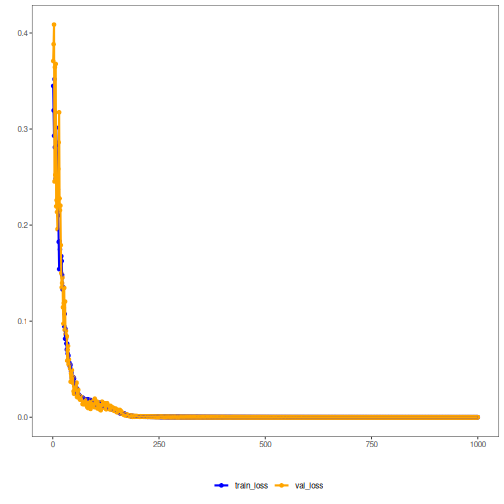
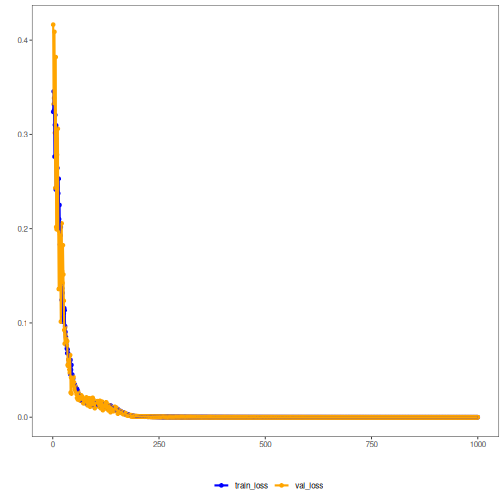
update

diff --git a/inst/python/autoenc_stacked.py b/inst/python/autoenc_stacked.py
@@ -121,13 +121,14 @@ def autoenc_stacked_train(sae, data, batch_size=32, num_epochs = 1000, learning_
   
   return sae, np.array(train_loss), np.array(val_loss)  
 
+
 def autoenc_stacked_fit(stack, data, batch_size = 32, num_epochs = 1000, learning_rate = 0.001):
     batch_size = int(batch_size)
     num_epochs = int(num_epochs)
 
     #STEP 1 - Start fitting first k autoencoder using original input layer        
     ae_k1 = stack[0]
-    ae_k1 = autoenc_stacked_train(ae_k1, data, num_epochs = num_epochs, learning_rate = learning_rate)
+    ae_k1, _, _ = autoenc_stacked_train(ae_k1, data, num_epochs = num_epochs, learning_rate = learning_rate)
     ae_k_out = autoenc_stacked_encode_decode(ae_k1, data)
     
     #STEP 2 - Fit internal layers using outputs from previous layers
@@ -135,13 +136,13 @@ def autoenc_stacked_fit(stack, data, batch_size = 32, num_epochs = 1000, learnin
     
     for k in range(1, internal):        
         ae_k = stack[k]
-        ae_k = autoenc_stacked_train(ae_k, data, num_epochs = num_epochs, learning_rate = learning_rate)
+        ae_k, _, _ = autoenc_stacked_train(ae_k, data, num_epochs = num_epochs, learning_rate = learning_rate)
         ae_k_out = autoenc_stacked_encode_decode(ae_k, ae_k_out)
     
     sae = stack[-1]
-    sae = autoenc_stacked_train(ae_k, data, num_epochs = num_epochs, learning_rate = 0.001)
+    saelist = autoenc_stacked_train(ae_k, data, num_epochs = num_epochs, learning_rate = 0.001)
     
-    return sae
+    return saelist
 
 
 def autoenc_stacked_encode_data(sae, data_loader):

diff --git a/autoencoder/autoenc_stacked_ed.md b/autoencoder/autoenc_stacked_ed.md
@@ -78,36 +78,17 @@ auto <- autoenc_stacked_ed(5, 3)
 auto <- fit(auto, train)
 ```
 
-```
-## 'tuple' object has no attribute 'encoder'
-```
-
 ### learning curves
 
 
 ```r
 fit_loss <- data.frame(x=1:length(auto$train_loss), train_loss=auto$train_loss,val_loss=auto$val_loss)
-```
 
-```
-## Error in data.frame(x = 1:length(auto$train_loss), train_loss = auto$train_loss, : arguments imply differing number of rows: 2, 0
-```
-
-```r
 grf <- plot_series(fit_loss, colors=c('Blue','Orange'))
-```
-
-```
-## Error in eval(expr, envir, enclos): object 'fit_loss' not found
-```
-
-```r
 plot(grf)
 ```
 
-```
-## Error in eval(expr, envir, enclos): object 'grf' not found
-```
+![plot of chunk unnamed-chunk-6](fig/autoenc_stacked_ed/unnamed-chunk-6-1.png)
 
 ### testing autoencoder
 presenting the original test set and display encoding
@@ -133,20 +114,19 @@ print(head(result))
 ```
 
 ```
-## NULL
+##           [,1]      [,2]      [,3]      [,4]      [,5]
+## [1,] 0.7267006 0.8286961 0.9104187 0.9673617 0.9957749
+## [2,] 0.8296547 0.9115273 0.9678695 0.9958019 0.9922695
+## [3,] 0.9118465 0.9683105 0.9963526 0.9946541 0.9602421
+## [4,] 0.9692327 0.9968472 0.9941206 0.9615766 0.8981550
+## [5,] 0.9980532 0.9949844 0.9611439 0.8989650 0.8104084
+## [6,] 0.9960976 0.9611527 0.8982551 0.8113660 0.7037683
 ```
 
 
 ```r
 result <- as.data.frame(result)
 names(result) <- names(test)
-```
-
-```
-## Error in names(result) <- names(test): 'names' attribute [5] must be the same length as the vector [0]
-```
-
-```r
 r2 <- c()
 mape <- c()
 for (col in names(test)){
@@ -159,7 +139,11 @@ print(paste(col, 'R2 test:', r2_col, 'MAPE:', mape_col))
 ```
 
 ```
-## Error in `[.data.frame`(result, col): undefined columns selected
+## [1] "t4 R2 test: 0.999955811670551 MAPE: 0.000730884713085735"
+## [1] "t3 R2 test: 0.999994134181576 MAPE: 0.00119268474939598"
+## [1] "t2 R2 test: 0.999995206921027 MAPE: 0.00228395058206119"
+## [1] "t1 R2 test: 0.999992167761683 MAPE: 0.00279392582585509"
+## [1] "t0 R2 test: 0.999993586042064 MAPE: 0.00337816250447034"
 ```
 
 ```r
@@ -167,14 +151,6 @@ print(paste('Means R2 test:', mean(r2), 'MAPE:', mean(mape)))
 ```
 
 ```
-## Warning in mean.default(r2): argument is not numeric or logical: returning NA
-```
-
-```
-## Warning in mean.default(mape): argument is not numeric or logical: returning NA
-```
-
-```
-## [1] "Means R2 test: NA MAPE: NA"
+## [1] "Means R2 test: 0.99998618131538 MAPE: 0.00207592167497367"
 ```
 

diff --git a/autoencoder/autoenc_ed.md b/autoencoder/autoenc_ed.md
@@ -117,12 +117,12 @@ print(head(result))
 
 ```
 ##           [,1]      [,2]      [,3]      [,4]      [,5]
-## [1,] 0.7247868 0.8316537 0.9137988 0.9683077 0.9964845
-## [2,] 0.8284011 0.9143170 0.9712622 0.9970754 0.9957155
-## [3,] 0.9122372 0.9701865 0.9990995 0.9962782 0.9670812
-## [4,] 0.9719790 0.9984660 0.9956748 0.9633302 0.9042454
-## [5,] 0.9985653 0.9954594 0.9615427 0.9007313 0.8140762
-## [6,] 0.9968860 0.9620174 0.8997785 0.8131266 0.7050553
+## [1,] 0.7261277 0.8325417 0.9103088 0.9666072 0.9978565
+## [2,] 0.8309079 0.9168327 0.9695908 0.9936600 0.9922258
+## [3,] 0.9127750 0.9725673 0.9991595 0.9922458 0.9606904
+## [4,] 0.9694787 0.9988886 0.9969349 0.9618205 0.9017226
+## [5,] 0.9974931 0.9941596 0.9630556 0.9042751 0.8189884
+## [6,] 0.9968123 0.9593908 0.8995146 0.8168983 0.7097685
 ```
 
 
@@ -141,11 +141,11 @@ print(paste(col, 'R2 test:', r2_col, 'MAPE:', mape_col))
 ```
 
 ```
-## [1] "t4 R2 test: 0.999810843059236 MAPE: 0.00137269924771921"
-## [1] "t3 R2 test: 0.999909760513578 MAPE: 0.00146003856596109"
-## [1] "t2 R2 test: 0.999977800097011 MAPE: 0.00102448045578848"
-## [1] "t1 R2 test: 0.999985764083188 MAPE: 0.00135185001891098"
-## [1] "t0 R2 test: 0.999934437144252 MAPE: 0.00305599901480932"
+## [1] "t4 R2 test: 0.999945020621931 MAPE: 0.000794169724340921"
+## [1] "t3 R2 test: 0.999403809347201 MAPE: 0.00410673718601097"
+## [1] "t2 R2 test: 0.999945299095783 MAPE: 0.00148399365761223"
+## [1] "t1 R2 test: 0.999813299511388 MAPE: 0.00372516653221044"
+## [1] "t0 R2 test: 0.999882935116919 MAPE: 0.00393110605050543"
 ```
 
 ```r
@@ -153,5 +153,5 @@ print(paste('Means R2 test:', mean(r2), 'MAPE:', mean(mape)))
 ```
 
 ```
-## [1] "Means R2 test: 0.999923720979453 MAPE: 0.00165301346063782"
+## [1] "Means R2 test: 0.999798072738645 MAPE: 0.002808234630136"
 ```

diff --git a/autoencoder/autoenc_conv_ed.md b/autoencoder/autoenc_conv_ed.md
@@ -115,12 +115,12 @@ print(head(result))
 
 ```
 ##           [,1]      [,2]      [,3]      [,4]      [,5]
-## [1,] 0.7408684 0.8506789 0.9191307 0.9533492 0.9550905
-## [2,] 0.8450747 0.9109615 0.9455776 0.9639896 0.9553459
-## [3,] 0.9079996 0.9391270 0.9536054 0.9619233 0.9419020
-## [4,] 0.9411817 0.9507638 0.9508256 0.9479556 0.9098747
-## [5,] 0.9552422 0.9497773 0.9336877 0.9101027 0.8433060
-## [6,] 0.9588286 0.9369866 0.8919725 0.8236843 0.7227489
+## [1,] 0.7397597 0.8506061 0.9184319 0.9529873 0.9553578
+## [2,] 0.8426411 0.9128184 0.9473937 0.9654758 0.9573398
+## [3,] 0.9080079 0.9409890 0.9553651 0.9632488 0.9437629
+## [4,] 0.9424857 0.9527189 0.9526516 0.9489828 0.9112077
+## [5,] 0.9573957 0.9520572 0.9359058 0.9098629 0.8433960
+## [6,] 0.9611979 0.9393899 0.8955956 0.8213720 0.7210050
 ```
 
 
@@ -139,11 +139,11 @@ print(paste(col, 'R2 test:', r2_col, 'MAPE:', mape_col))
 ```
 
 ```
-## [1] "t4 R2 test: 0.978177474736047 MAPE: 0.0200700266844703"
-## [1] "t3 R2 test: 0.968647302372741 MAPE: 0.0247665668009552"
-## [1] "t2 R2 test: 0.990297353932645 MAPE: 0.0207316420481655"
-## [1] "t1 R2 test: 0.996359062705179 MAPE: 0.0172316807289975"
-## [1] "t0 R2 test: 0.993267851999692 MAPE: 0.0265265214709473"
+## [1] "t4 R2 test: 0.981704452713461 MAPE: 0.0182409375602101"
+## [1] "t3 R2 test: 0.969216741353766 MAPE: 0.0240653824076515"
+## [1] "t2 R2 test: 0.990697513821269 MAPE: 0.0194137694814623"
+## [1] "t1 R2 test: 0.996972758128115 MAPE: 0.0163506028878705"
+## [1] "t0 R2 test: 0.993779874742928 MAPE: 0.0248420318775142"
 ```
 
 ```r
@@ -151,6 +151,6 @@ print(paste('Means R2 test:', mean(r2), 'MAPE:', mean(mape)))
 ```
 
 ```
-## [1] "Means R2 test: 0.985349809149261 MAPE: 0.0218652875467072"
+## [1] "Means R2 test: 0.986474268151908 MAPE: 0.0205825448429417"
 ```
 

diff --git a/autoencoder/autoenc_adv_ed.md b/autoencoder/autoenc_adv_ed.md
@@ -115,12 +115,12 @@ print(head(result))
 
 ```
 ##           [,1]      [,2]      [,3]      [,4]      [,5]
-## [1,] 0.8623267 0.9137213 0.9308748 0.9292481 0.8892730
-## [2,] 0.8890381 0.9363215 0.9507873 0.9499587 0.9138673
-## [3,] 0.9001415 0.9450906 0.9582519 0.9576902 0.9237896
-## [4,] 0.8982390 0.9436421 0.9569663 0.9563622 0.9220790
-## [5,] 0.8820744 0.9306950 0.9457088 0.9446887 0.9074579
-## [6,] 0.8488404 0.9016211 0.9195030 0.9173644 0.8763684
+## [1,] 0.8541849 0.9081222 0.9286543 0.9286913 0.8899996
+## [2,] 0.8819500 0.9317923 0.9491853 0.9497160 0.9147583
+## [3,] 0.8935948 0.9410669 0.9569238 0.9575852 0.9247788
+## [4,] 0.8917389 0.9396508 0.9556935 0.9563400 0.9231910
+## [5,] 0.8747866 0.9259855 0.9440453 0.9444774 0.9084468
+## [6,] 0.8405215 0.8958312 0.9172575 0.9169362 0.8774028
 ```
 
 
@@ -139,11 +139,11 @@ print(paste(col, 'R2 test:', r2_col, 'MAPE:', mape_col))
 ```
 
 ```
-## [1] "t4 R2 test: 0.331564566298044 MAPE: 0.164457766331174"
-## [1] "t3 R2 test: 0.888055283031015 MAPE: 0.0876614329643697"
-## [1] "t2 R2 test: 0.958191082040845 MAPE: 0.0440982800457545"
-## [1] "t1 R2 test: 0.907468971589695 MAPE: 0.140279411167583"
-## [1] "t0 R2 test: 0.849154413634902 MAPE: 0.326482358907199"
+## [1] "t4 R2 test: 0.330333211092758 MAPE: 0.171350445844919"
+## [1] "t3 R2 test: 0.888537462540121 MAPE: 0.0940720045591496"
+## [1] "t2 R2 test: 0.959193830401148 MAPE: 0.04360551865306"
+## [1] "t1 R2 test: 0.90700975699818 MAPE: 0.134421857020206"
+## [1] "t0 R2 test: 0.847225932437399 MAPE: 0.320677718421551"
 ```
 
 ```r
@@ -151,6 +151,6 @@ print(paste('Means R2 test:', mean(r2), 'MAPE:', mean(mape)))
 ```
 
 ```
-## [1] "Means R2 test: 0.7868868633189 MAPE: 0.152595849883216"
+## [1] "Means R2 test: 0.786460038693921 MAPE: 0.152825508899777"
 ```
 

diff --git a/autoencoder/autoenc_stacked_e.md b/autoencoder/autoenc_stacked_e.md
@@ -78,36 +78,17 @@ auto <- autoenc_stacked_e(5, 3)
 auto <- fit(auto, train)
 ```
 
-```
-## 'tuple' object has no attribute 'encoder'
-```
-
 ### learning curves
 
 
 ```r
 fit_loss <- data.frame(x=1:length(auto$train_loss), train_loss=auto$train_loss,val_loss=auto$val_loss)
-```
 
-```
-## Error in data.frame(x = 1:length(auto$train_loss), train_loss = auto$train_loss, : arguments imply differing number of rows: 2, 0
-```
-
-```r
 grf <- plot_series(fit_loss, colors=c('Blue','Orange'))
-```
-
-```
-## Error in eval(expr, envir, enclos): object 'fit_loss' not found
-```
-
-```r
 plot(grf)
 ```
 
-```
-## Error in eval(expr, envir, enclos): object 'grf' not found
-```
+![plot of chunk unnamed-chunk-6](fig/autoenc_stacked_e/unnamed-chunk-6-1.png)
 
 ### testing autoencoder
 presenting the original test set and display encoding
@@ -133,6 +114,12 @@ print(head(result))
 ```
 
 ```
-## NULL
+##            [,1]        [,2]      [,3]
+## [1,] -0.7253746  0.39318785 -1.245108
+## [2,] -0.7515501  0.29520994 -1.315129
+## [3,] -0.7591967  0.18773380 -1.347228
+## [4,] -0.7481624  0.07891147 -1.338709
+## [5,] -0.7207873 -0.01697753 -1.286517
+## [6,] -0.6773266 -0.10331622 -1.197592
 ```
 

diff --git a/autoencoder/autoenc_conv_e.md b/autoencoder/autoenc_conv_e.md
@@ -114,12 +114,12 @@ print(head(result))
 ```
 
 ```
-##             [,1]       [,2]     [,3]
-## [1,] -1.23182344 -0.9906367 1.193842
-## [2,] -1.02568305 -1.1560767 1.355778
-## [3,] -0.80914044 -1.2691101 1.448552
-## [4,] -0.54788017 -1.3170273 1.403358
-## [5,] -0.29455650 -1.2987070 1.268583
-## [6,] -0.08052337 -1.1966857 1.036078
+##             [,1]      [,2]     [,3]
+## [1,] -1.22561908 -1.007712 1.196282
+## [2,] -1.01983619 -1.173038 1.357978
+## [3,] -0.80376571 -1.284199 1.449751
+## [4,] -0.54502344 -1.328101 1.406922
+## [5,] -0.29254413 -1.304895 1.271905
+## [6,] -0.07898684 -1.199661 1.040693
 ```
 

diff --git a/autoencoder/autoenc_adv_e.md b/autoencoder/autoenc_adv_e.md
@@ -115,11 +115,11 @@ print(head(result))
 
 ```
 ##          [,1]      [,2]        [,3]
-## [1,] 2.019342 -2.787462  0.25825277
-## [2,] 4.015265 -3.326154 -0.03783593
-## [3,] 4.585708 -5.611946  1.41377008
-## [4,] 2.573964 -2.161633 -0.07357097
-## [5,] 1.876736 -2.933646 -0.52701390
-## [6,] 3.003807 -3.257678  0.61447030
+## [1,] 2.094634 -2.726809  0.23422931
+## [2,] 3.987854 -3.281054 -0.09117435
+## [3,] 4.569687 -5.640577  1.35291719
+## [4,] 2.653667 -2.261863 -0.11866602
+## [5,] 1.823184 -2.799914 -0.57045847
+## [6,] 2.899597 -3.082392  0.52497637
 ```
 

diff --git a/autoencoder/autoenc_e.md b/autoencoder/autoenc_e.md
@@ -115,11 +115,11 @@ print(head(result))
 
 ```
 ##           [,1]       [,2]      [,3]
-## [1,] 1.0481615 -0.7126950 0.5549806
-## [2,] 1.0676147 -0.8404511 0.5492610
-## [3,] 1.0592018 -0.9391949 0.5251315
-## [4,] 1.0199351 -1.0059825 0.4799020
-## [5,] 0.9533466 -1.0356683 0.4176869
-## [6,] 0.8652048 -1.0249250 0.3442972
+## [1,] 1.0509732 -0.7452822 0.6041138
+## [2,] 1.0647763 -0.8732990 0.6006427
+## [3,] 1.0505695 -0.9700136 0.5775035
+## [4,] 1.0081930 -1.0354395 0.5352926
+## [5,] 0.9404839 -1.0672778 0.4784508
+## [6,] 0.8537443 -1.0574659 0.4099416
 ```
 
